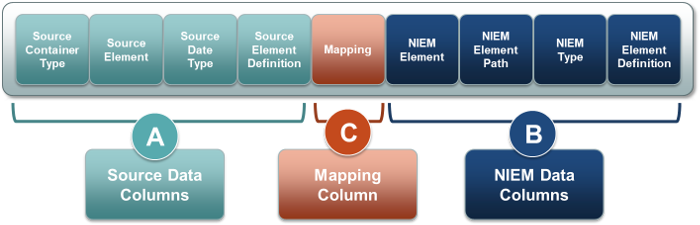
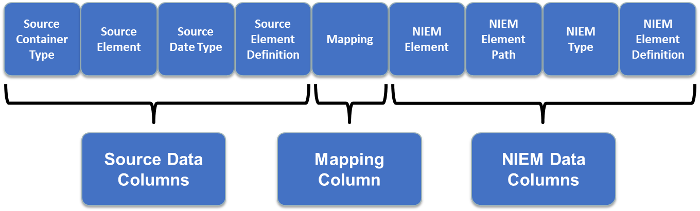
Clarify Steps and Make Process Smoother
Rewrote some steps and moved text around to better explain what to do in mapping, Graphics adjusted to match spreadsheet colors.

diff --git a/training/iepd-developer/mapping/index.md b/training/iepd-developer/mapping/index.md
@@ -1,18 +1,16 @@
 ---
 title: Mapping Process & Document
 icon: fa-envelope-o
-description: The mapping process involves setting up a mapping document, and searching and mapping NIEM elements.
+description: The mapping process consists of the creation of a mapping document and then searching for NIEM elements and mapping them in the document.
 ---
 
 {{ page.description}}
 
 {% include icon-list.html links=page.links %}
 
-# Mapping Process
+# What is a Mapping Document
 
-## What is a Mapping Document?
-
-The Mapping Document is a table or spreadsheet that identifies how existing exchange data aligns to (or maps) and reuses NIEM data objects. It is also referred to as a Component Mapping Template (CMT), Component Mapping Tool, or Mapping Spreadsheet. The document has the following characteristics:
+The Mapping Document is a spreadsheet that identifies how existing exchange data aligns to (or maps) and reuses NIEM data objects. It is also referred to as a Component Mapping Template (CMT), Component Mapping Tool, or Mapping Spreadsheet. The document has the following characteristics:
 
 - Demonstrates how the existing exchange data (or the **Exchange Content Model**) objects map to NIEM data objects by recording the degree of similarity.
 
@@ -26,9 +24,9 @@ The following illustration shows the general structure of a mapping document.
 
 ## Setting Up a Mapping Document
 
-Create a blank, nine-column table or spreadsheet with the headings shown in the previous illustration (Source Container Type, Source Element, etc.).
+Create a blank, nine-column table or spreadsheet with the headings shown in the previous illustration (Source Container Type, Source Element, etc.). You can use a sample mapping document provided at Sample Mapping Document.
 
-The next steps in setting up a mapping document are to identify (fill in) the **Source Data Columns**:
+In the next steps, identify (fill in) the **Source Data Columns**:
 
 ### Source Data Columns
 
@@ -57,12 +55,12 @@ The **Mapping** value is the degree to which a source element maps to a NIEM ele
 
 1. Use a NIEM tool (e.g., Schema Subset Generation Tool (SSGT)) to find an element from a NIEM reference schema that “maps” to the exchange data element. In this example, look for a "Property" with "personSSN" as the search string.
 1. If nothing is found that looks like a match, try searching by name, for synonyms, conceptual meaning, or by type. In this example, a possible match is found.<br>![Mapping Tool Example (SSGT)](ssgtexample.png "Mapping Tool Example (SSGT)")
-1. Enter the match in the mapping document under "NIEM Element."<br>![Mapping Result Example (SSGT)](mappingelement.png "Mapping Result Example (SSGT)")
-1. Map objects that are conceptually and semantically equivalent. If the alignment is not easily understood, it is better to extend.
-1. Document the information about the NIEM data object, including the type of mapping (equivalent, partial, no match) if one is found. In this example, enter the type under "NIEM Type."<br>![Mapping Result Example (SSGT)](mappingtype.png "Mapping Result Example (SSGT)")
-1. Click the **Add** button to begin the schema-creation process and to identify an element path.<br>![Mapping Result Example (SSGT)](mappingpath.png "Mapping Result Example (SSGT)")
+1. Enter the match in the mapping document under "NIEM Element." Map objects that are conceptually and semantically equivalent. If the alignment is not easily understood, it is better to extend, which is explained later in this section.<br>![Mapping Result Example (SSGT)](mappingelement.png "Mapping Result Example (SSGT)")
+1. Note the type associated with the match and enter it under "NIEM Type."<br>![Mapping Result Example (SSGT)](mappingtype.png "Mapping Result Example (SSGT)")
+1. Determine the type of mapping (equivalent, partial, no match). This can be a personal judgment. In this example, the match seems to be equivalent (the best type of match). Enter the "Equivalent" under "Mapping."<br>![Mapping Result Example (SSGT)](mappingcolumn.png "Mapping Result Example (SSGT)")
+1. Click the **Add** button to begin the schema-creation process and to identify an element path. Open likely relationship trees until the terminal node is revealed.<br>![Mapping Result Example (SSGT)](mappingpath.png "Mapping Result Example (SSGT)")
 1. Note the **Types** and **Elements** areas are populated when the **Add** button is clicked.<br>![Mapping Result Example (SSGT)](mappingadditions.png "Mapping Result Example (SSGT)")
-1. The "NIEM Element Path" becomes the following:<br>![Mapping Result Example (SSGT)](mappingfinal.png "Mapping Result Example (SSGT)")
+1. The "NIEM Element Path" is the joining together of the elements of the tree.<br>![Mapping Result Example (SSGT)](mappingfinal.png "Mapping Result Example (SSGT)")
 1. With the information you have now, you can begin the schema-generation and validation process.
 
 ### Model Searching Tips

diff --git a/training/iepd-developer/index.md b/training/iepd-developer/index.md
@@ -1,7 +1,7 @@
 ---
   title: IEPD Developer
   icon: fa-envelope-o
-  description: An IEPD developer designs and manages the specification of an information exchange.
+description: An Information Exchange Package Documentation (IEPD) Developer designs, builds, and validates the components (artifacts) of an Information Exchange Package (IEP). This includes a Mapping Document that matches your exchange data elements to the NIEM data model, and XML schemas and other XML documents generated from NIEM tools.
   links:
   - url: /reference/concepts/
     newtab: true
@@ -30,16 +30,20 @@
 
 {% include icon-list.html links=page.links %}
 
-# Build and Validate an IEPD
+# IEPD Lifecycle
 
-An Information Exchange Package (IEP) contains Information Exchange Package Documentation (IEPD) that you need to generate and validate to ensure NIEM conformance:
+This training section covers the six phases of the IEPD Lifecycle:
 
-- Mapping Document that matches your exchange data elements to the NIEM data model
-
-- XML schemas and other XML documents generated from NIEM tools
+1. **Scenario Planning**: During the Scenario Planning phase, you review background information related to your information exchange, assess resource impact, understand business context, and identify information exchange business scenarios.
+1. **Analyze Requirements**: During the Analyze Requirements phase, the selected information exchange scenario is further elaborated to understand and document the business context and data requirements.
+1. **Map and Model**: During the Map and Model phase, you create an exchange content model based on your information exchange requirements. The Exchange Content Model is then mapped to the NIEM data model.
+1. **Build and Validate**: During the Build and Validate phase, you create a set of exchange-specific, NIEM-conformant XML schemas that implement the exchange content model created for the exchange.
+1. **Assemble and Document**: During the Assemble and Document Phase, you prepare and package all related files for the IEPD into a single, self‐contained, self-documented, portable archive file.
+1. **Publish and Implement**: During the last phase, the Publish and Implement phase, you implement the IEPD into production and publish the IEPD for search, discovery, and reuse.
 
 ## Map and Model
 
-[Mapping Process and Document](mapping/ "Mapping Process and Document")
+The IEPD consists of the following:
 
-[Generate XML Schemas and Other XML Documents and Validate Them](schemas/ "Generate XML Schemas and Other XML Documents and Validate Them")
+- Mapping Document that matches your exchange data elements to the NIEM data model:<br>[Mapping Process and Document](mapping/ "Mapping Process and Document")
+- XML schemas and other XML documents generated from NIEM tools:<br>[Generate XML Schemas and Other XML Documents and Validate Them](schemas/ "Generate XML Schemas and Other XML Documents and Validate Them")
